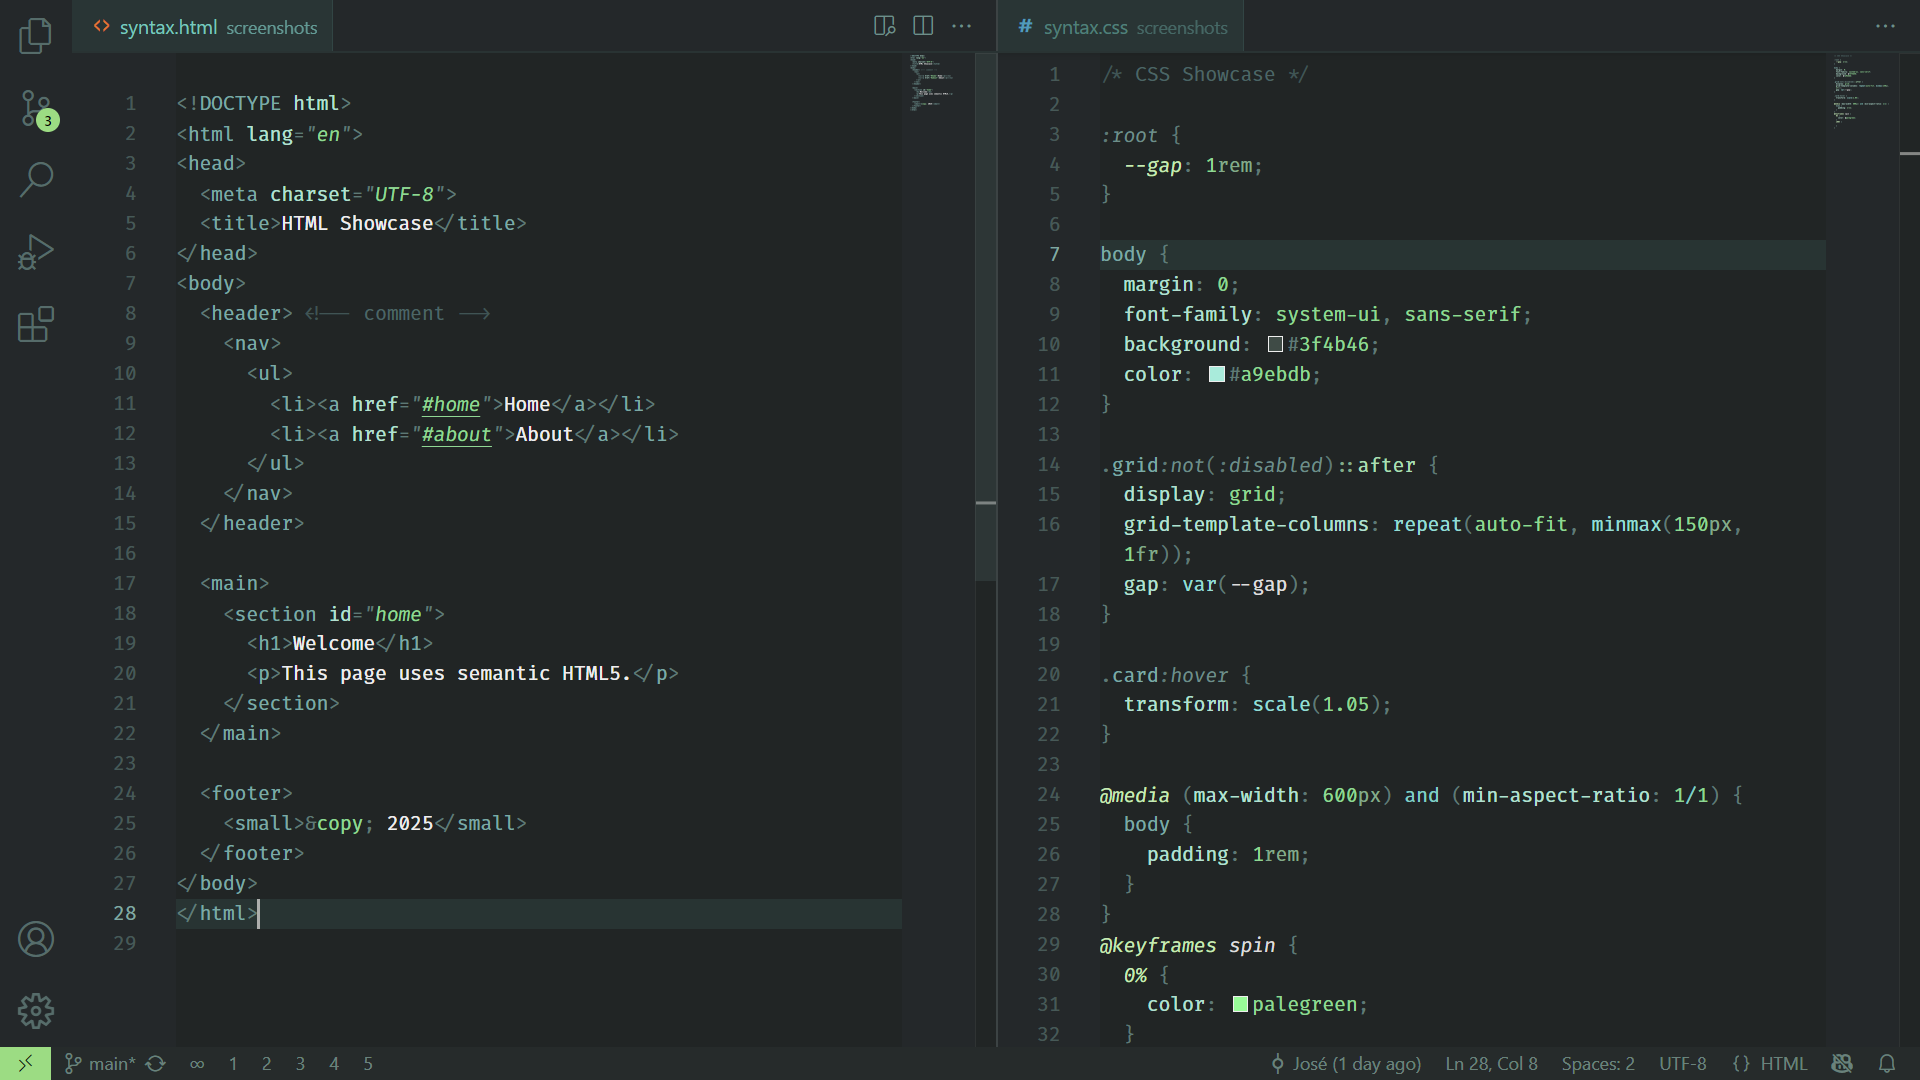
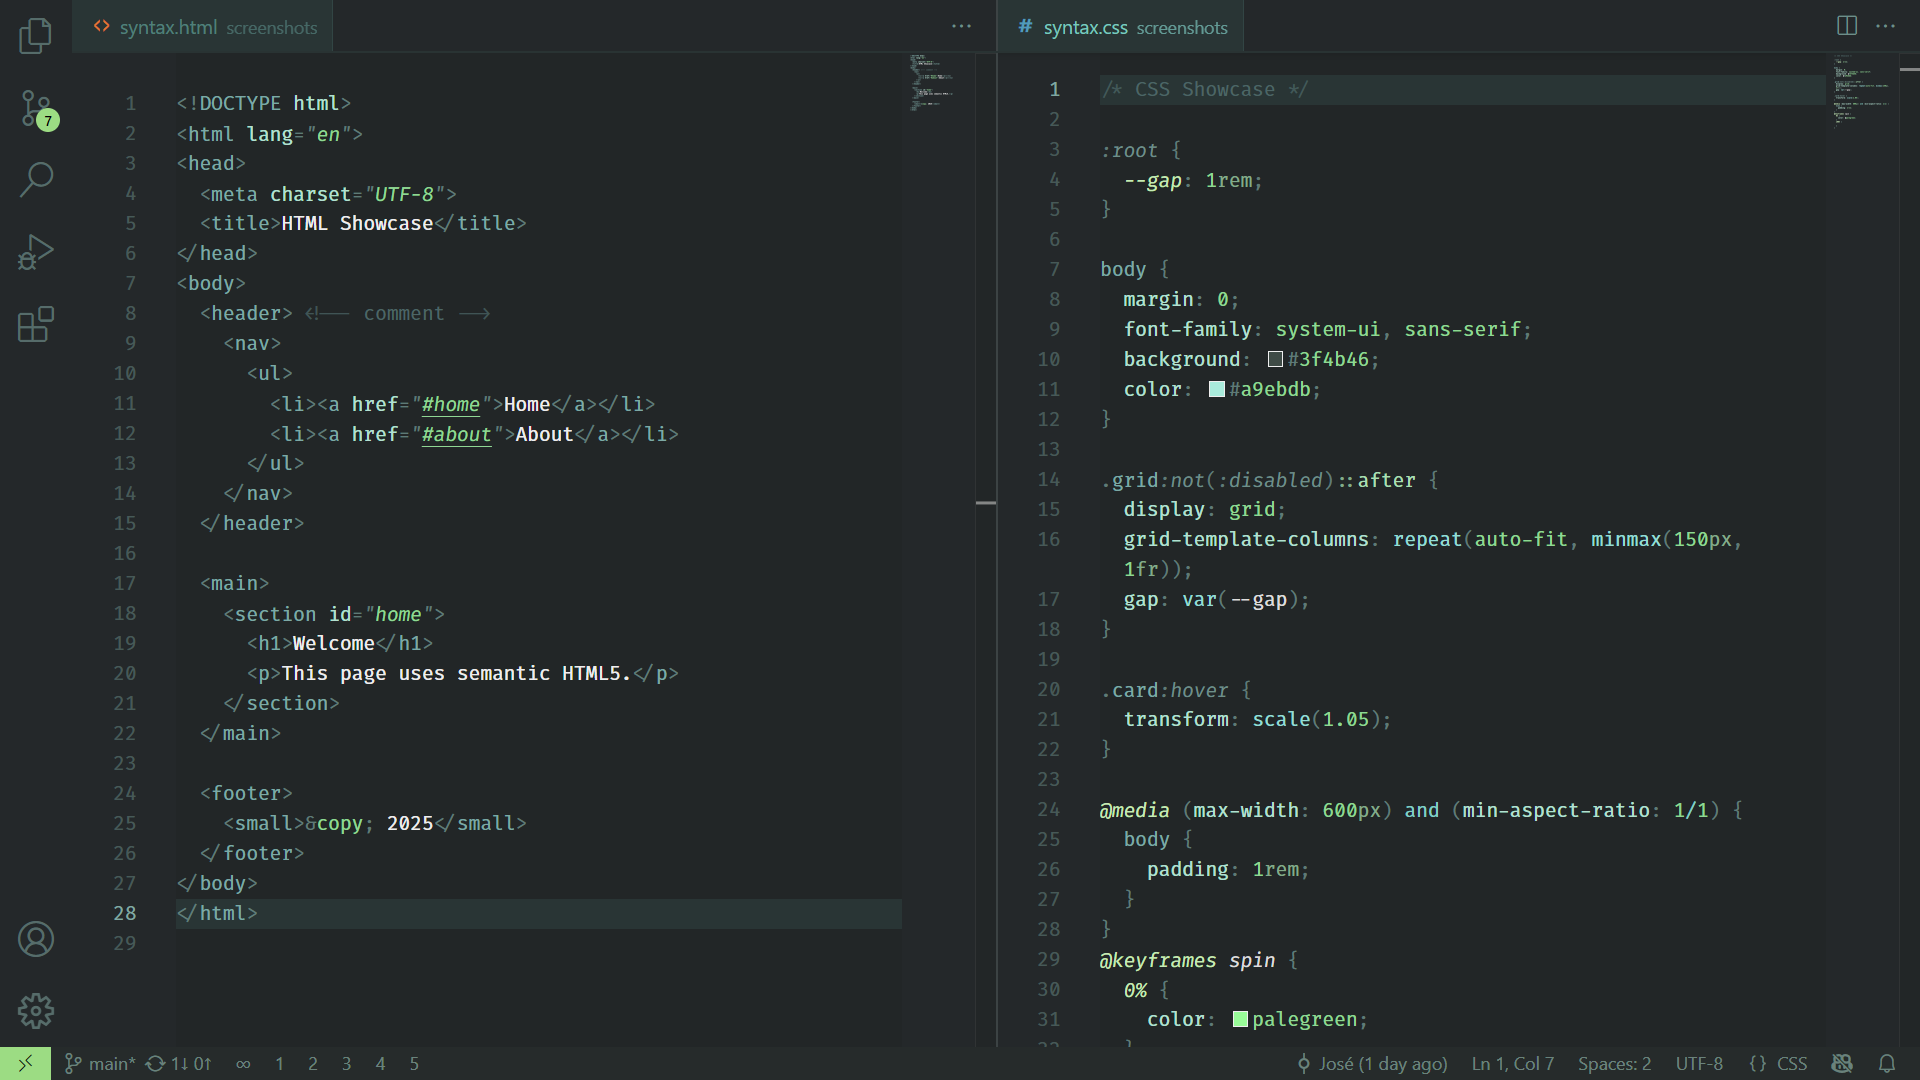
Fixed: screenshots were using darker bg, added new ones.

diff --git a/README.md b/README.md
@@ -1,18 +1,14 @@
-# Le Grand Nord VS Code Theme
+# Le Grand Nord – VS Code Theme
 
 [EN] A minimalist color palette, featuring cool tones and medium contrast for a consistent and calm aesthetic.
 
 [FR] Une palette de couleur minimaliste aux tons froids avec un contraste moyen, pour une esthétique consistente et calme.
 
-## Javascript
+**Javascript**
 ![Le Grand Nord Theme - JAVASCRIPT](screenshots/javascript.png)
 
-## HTML / CSS
+**HTML / CSS**
 ![Le Grand Nord Theme - HTML / CSS](screenshots/html-css.png)
-
-## Python
-![Le Grand Nord Theme - PYTHON](screenshots/python.png)
-
 
 Tags: #nord #flow #concentration #focus #zen #simple #beautiful
 
@@ -33,8 +29,14 @@ If you want a better contrast, just add this to your user settings (json):
 
 Here's what it looks like:
 
+**Javascript**
 ![Le Grand Nord Theme - JAVASCRIPT (Deep BG)](screenshots/darker-bg.png)
 
+**HTML / CSS**
+![Le Grand Nord Theme - HTML / CSS](screenshots/darker-html-css.png)
+
+**Python**
+![Le Grand Nord Theme - PYTHON](screenshots/darker-python.png)
 
 
 ## Contributing
